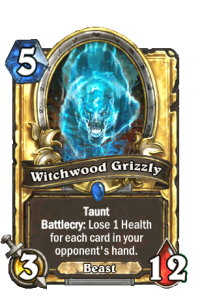
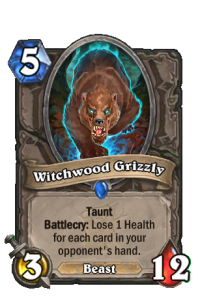
Rework Witchwood Grizzly golden version.

diff --git a/Sources/mainwindow.cpp b/Sources/mainwindow.cpp
@@ -4167,9 +4167,7 @@ void MainWindow::testDelay()
 
 
 //TODDO
-//Cartas Witchwood Grizzly marron
 //Completar synergies manual con todas las cartas
-//Appimage library
 //Redownload all cards next version (nerfed cards)
 
 
